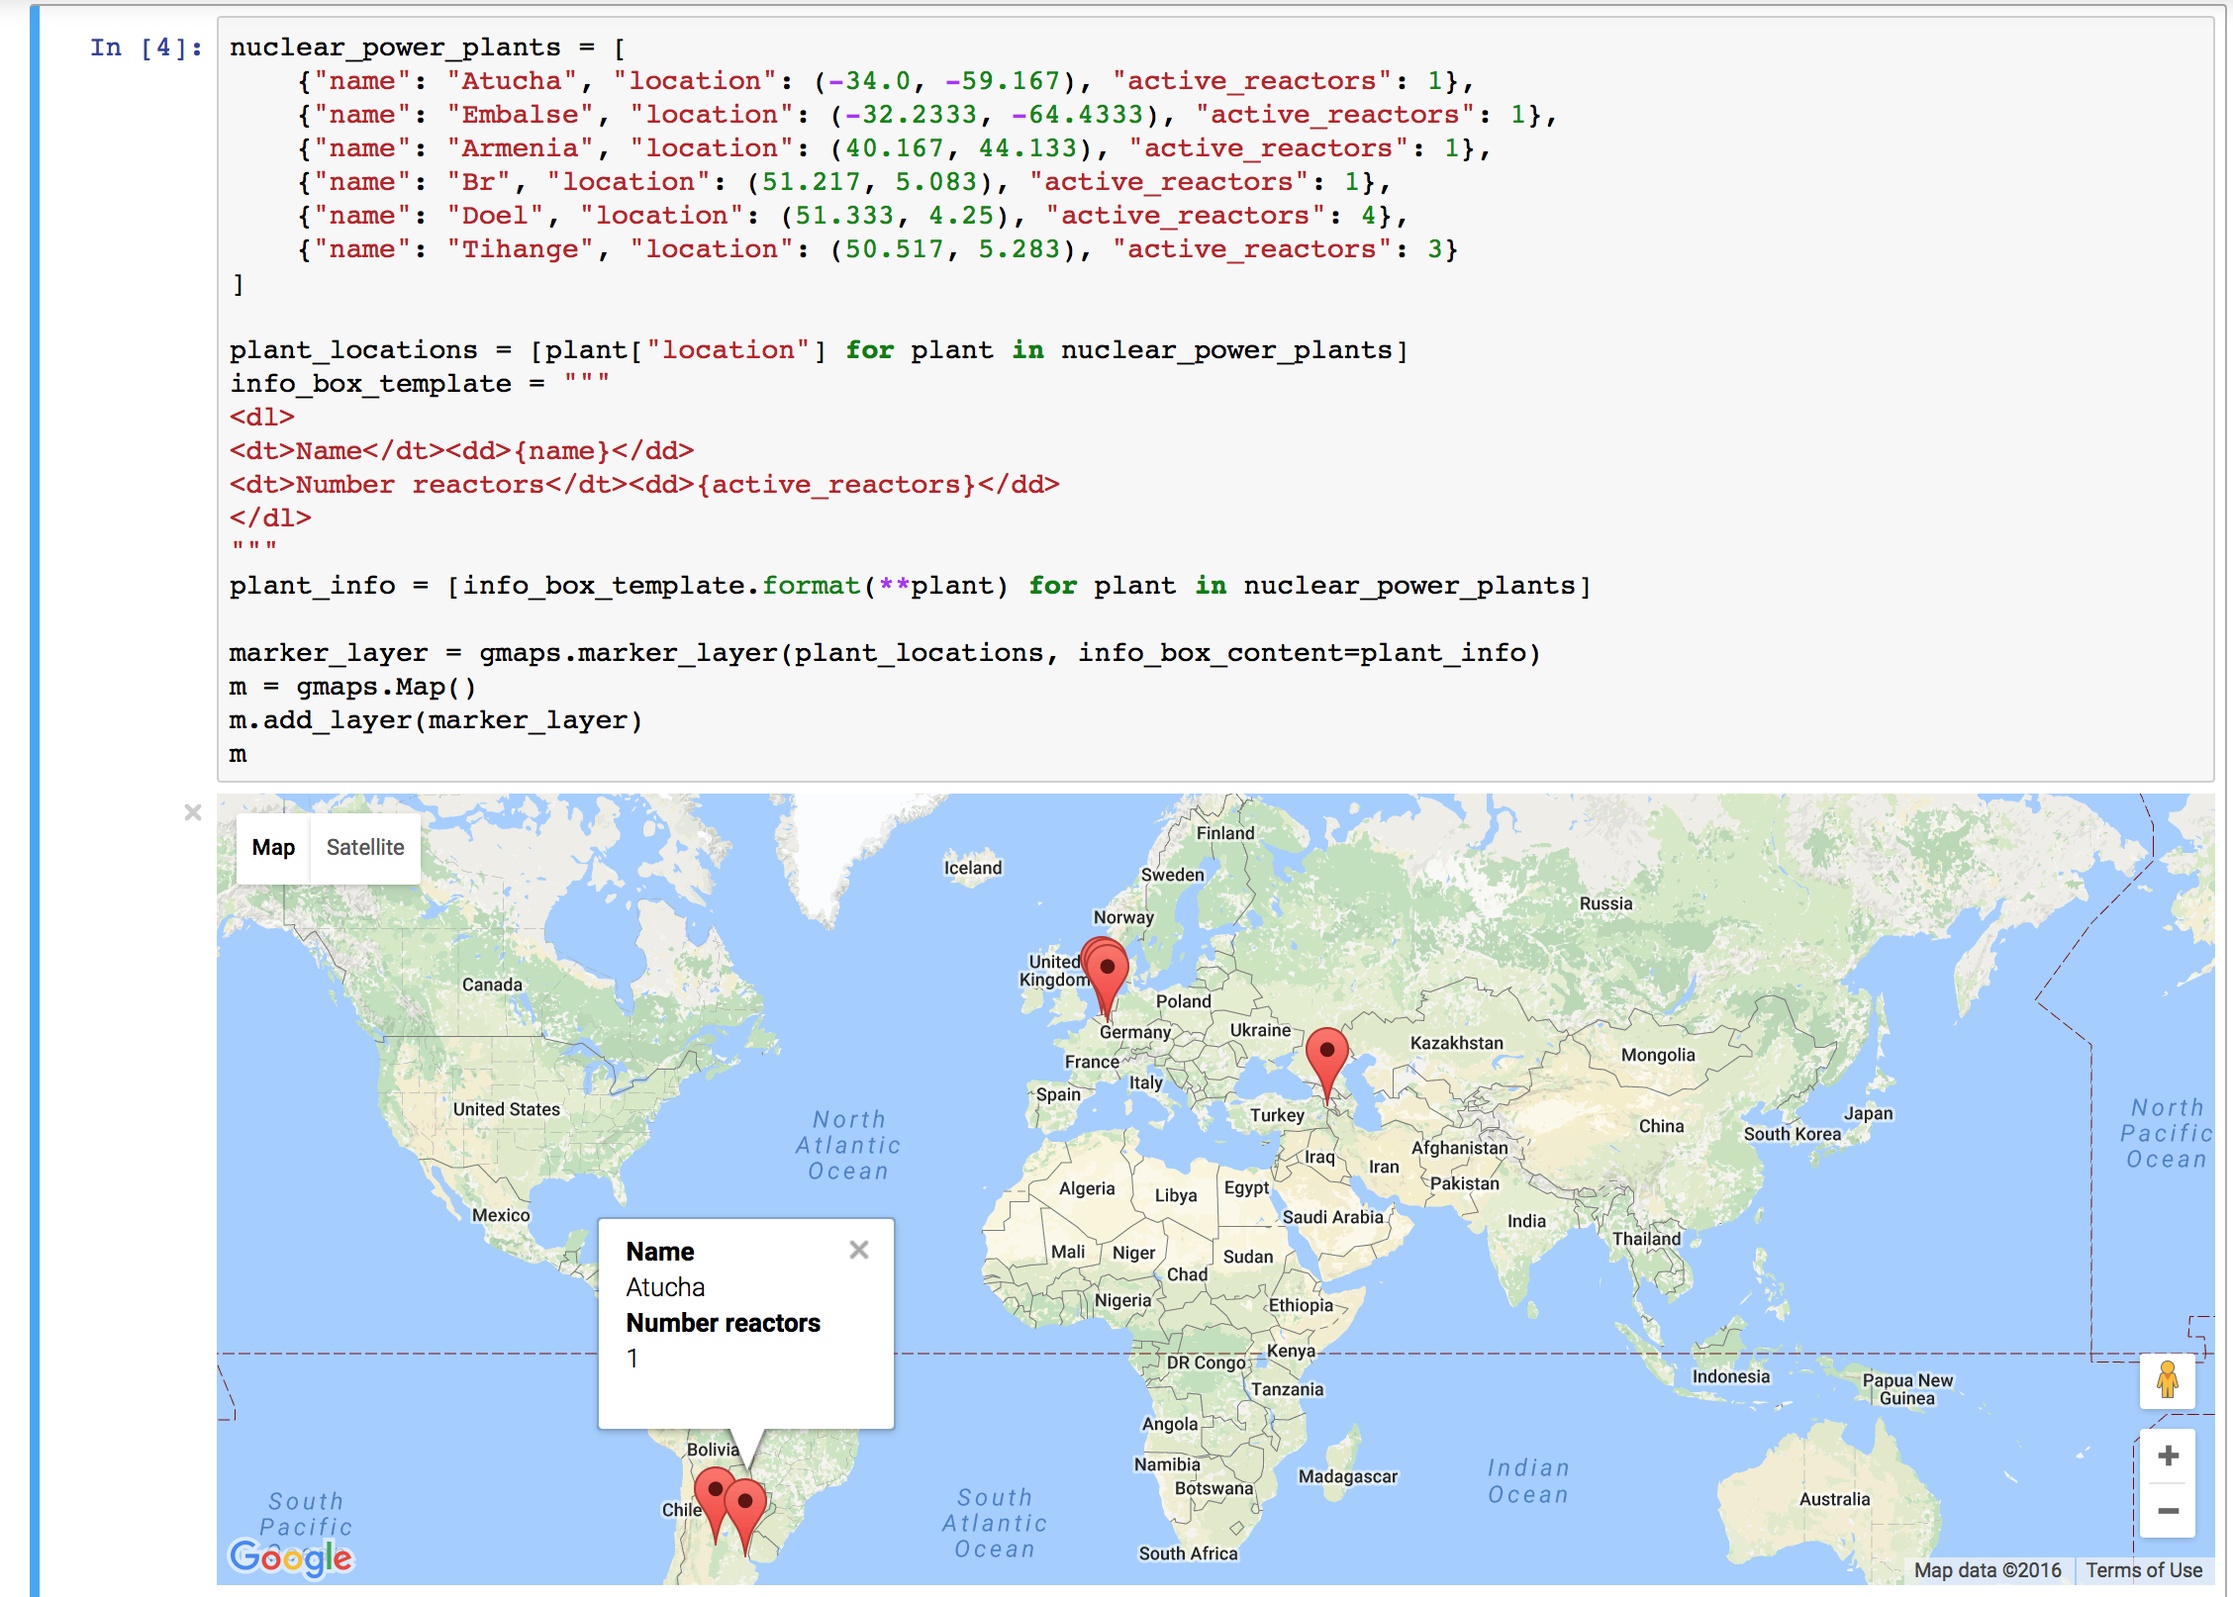
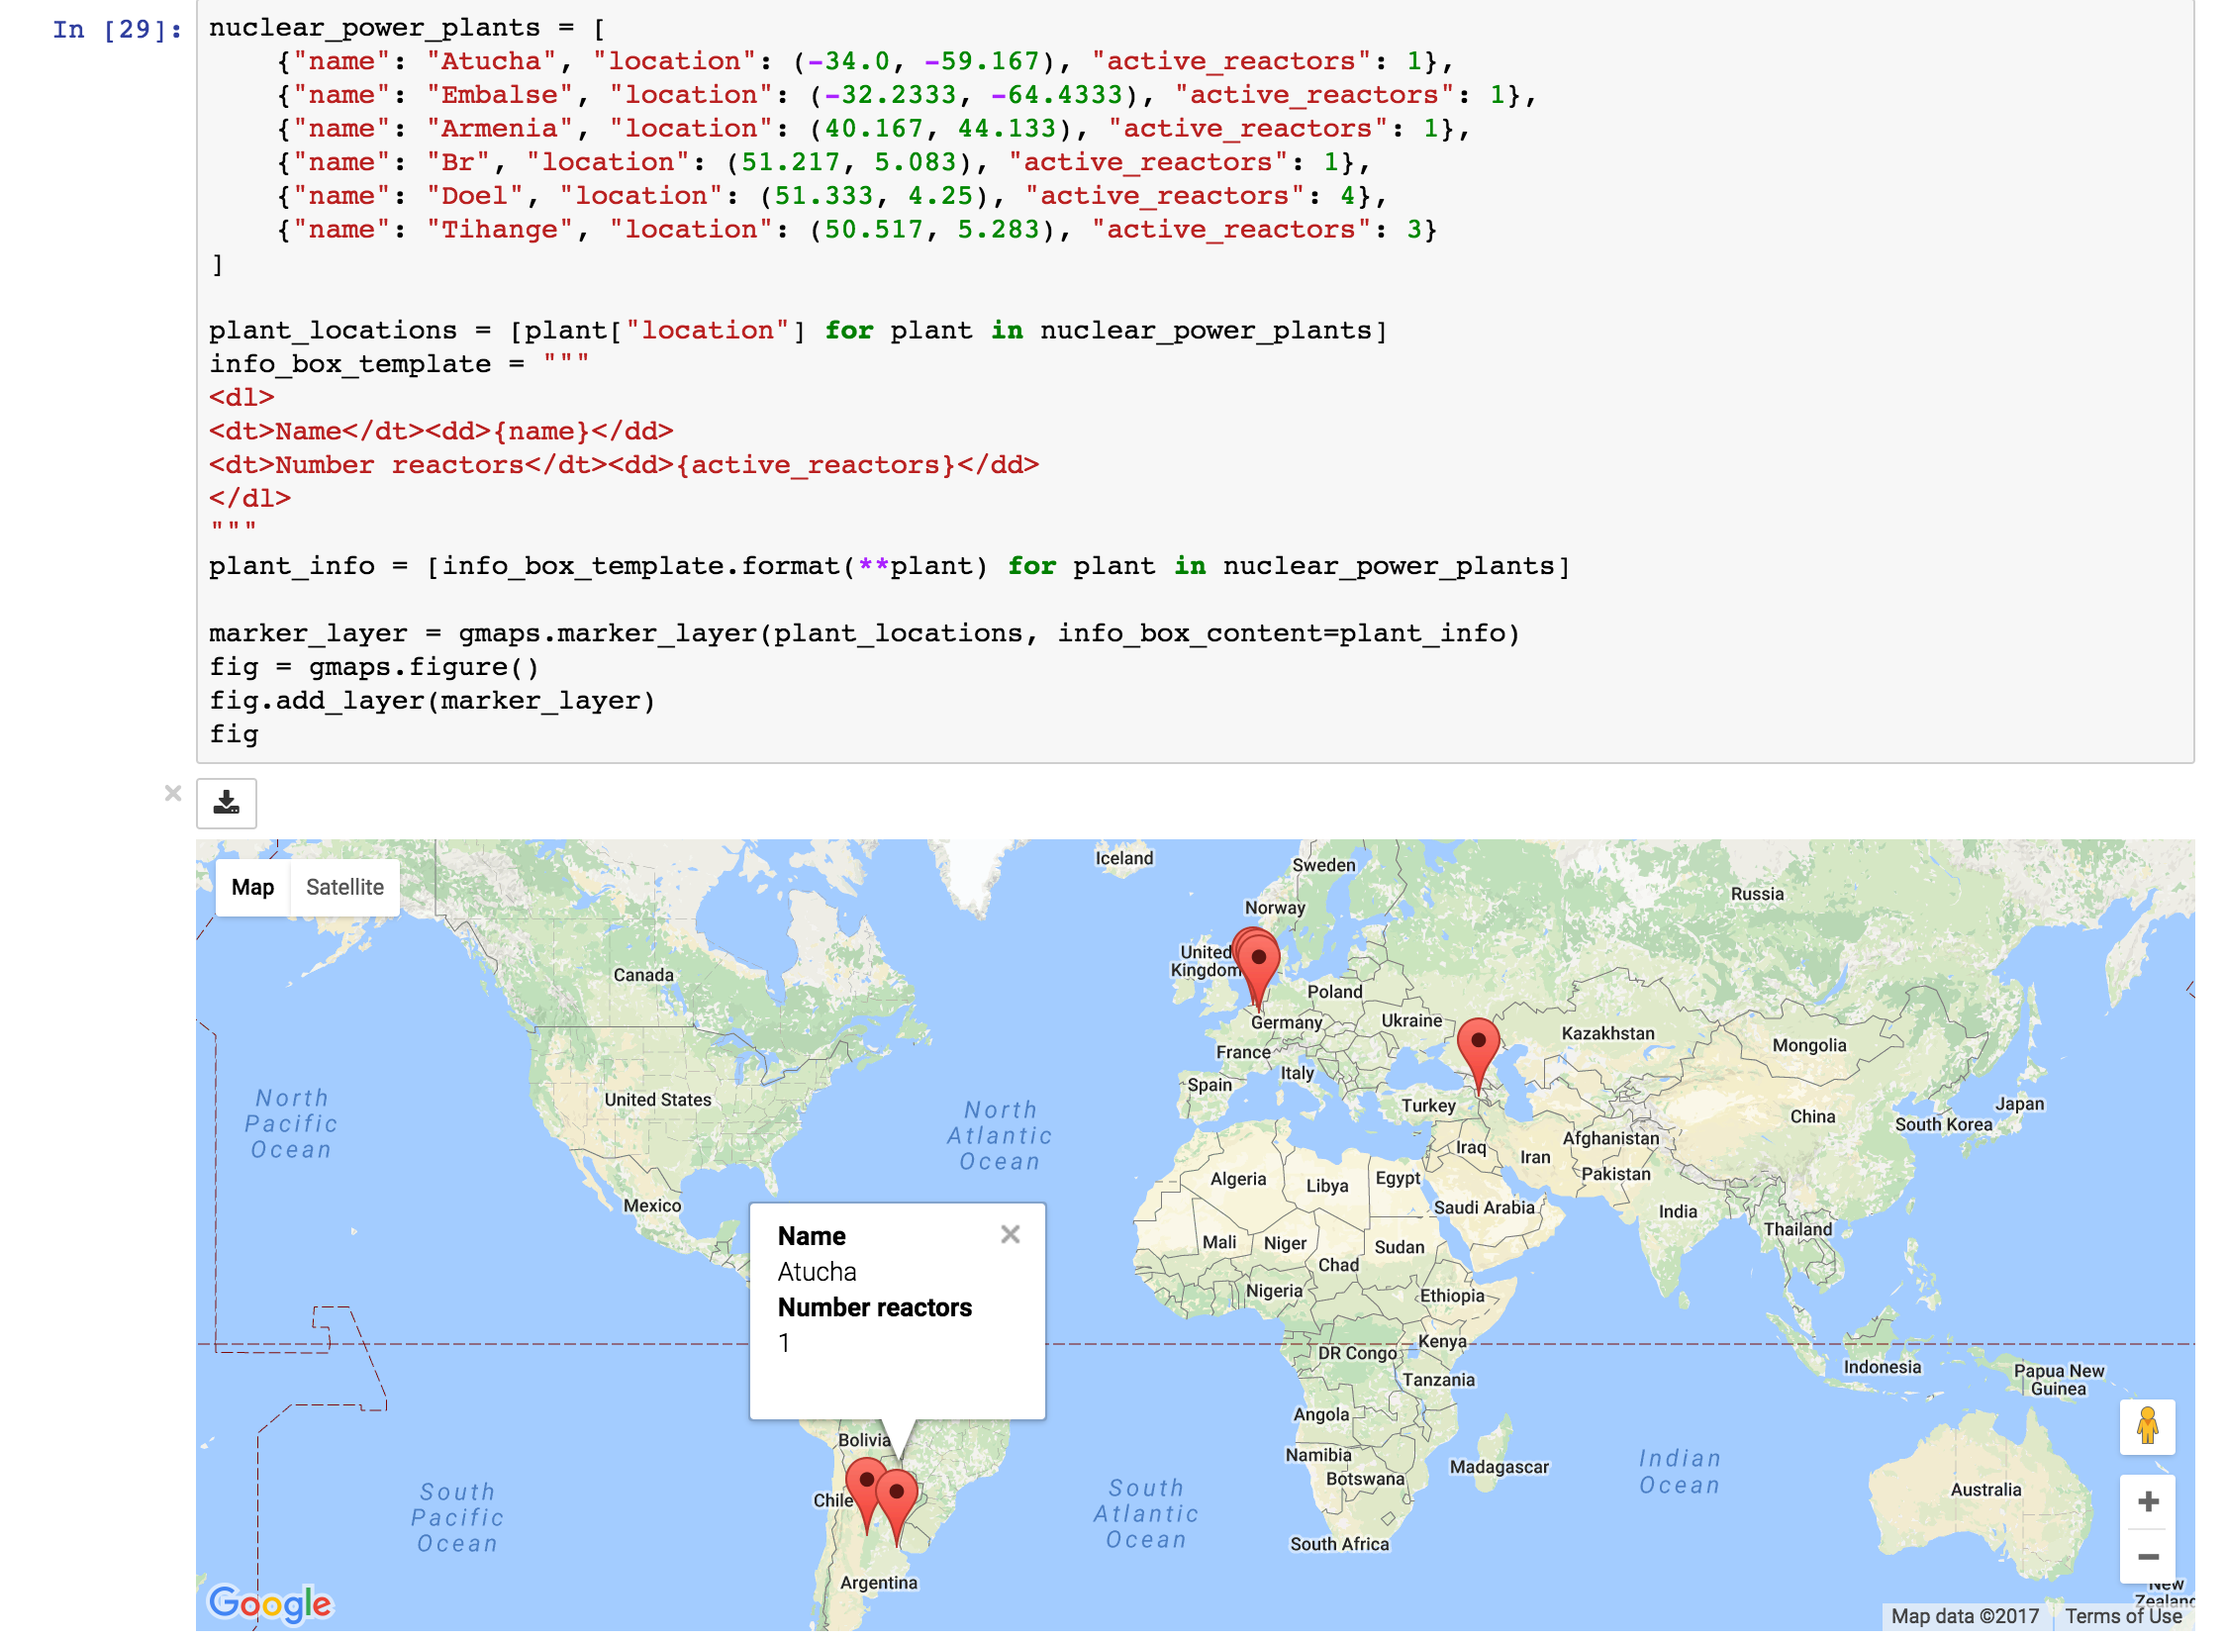
Start migrating marker documentation

Changed region(s): [[0.0, 0.0, 1.0, 1.0], [0.1868, 0.8984, 0.218, 0.9603]]

diff --git a/docs/source/gmaps.rst b/docs/source/gmaps.rst
@@ -180,11 +180,11 @@ We can add a layer of markers to a Google map. Each marker represents an individ
       (51.216671, 5.0833302),
       (51.333328, 4.25)
   ]
-  markers = gmaps.marker_layer(marker_locations)
 
-  m = gmaps.Map()
-  m.add_layer(markers)
-  m
+  fig = gmaps.figure()
+  markers = gmaps.marker_layer(marker_locations)
+  fig.add_layer(markers)
+  fig
 
 .. image:: marker-example.png
 
@@ -212,9 +212,9 @@ We can also attach a pop-up box to each marker. Clicking on the marker will brin
   plant_info = [info_box_template.format(**plant) for plant in nuclear_power_plants]
 
   marker_layer = gmaps.marker_layer(plant_locations, info_box_content=plant_info)
-  m = gmaps.Map()
-  m.add_layer(marker_layer)
-  m
+  fig = gmaps.figure()
+  fig.add_layer(marker_layer)
+  fig
 
 .. image:: marker-info-box-example.png
 
